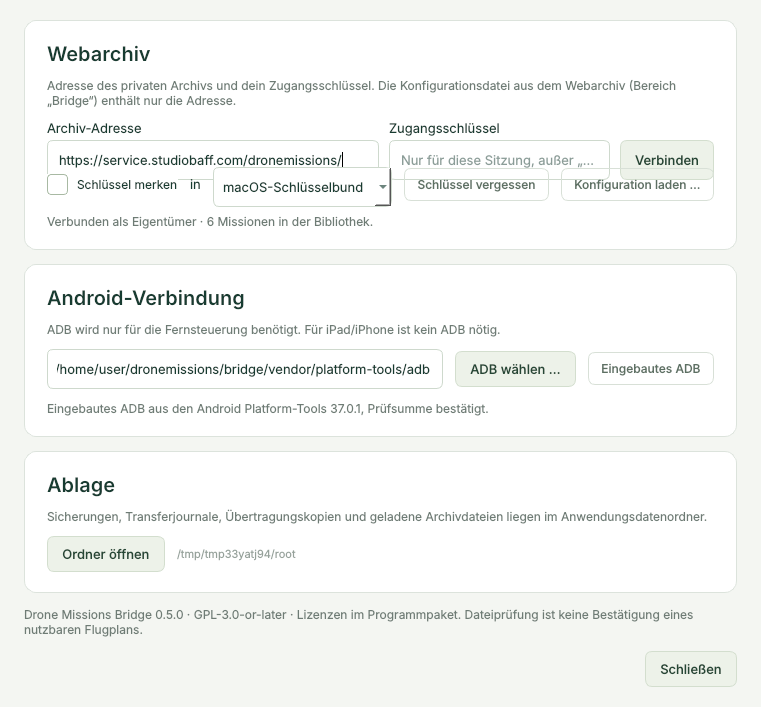
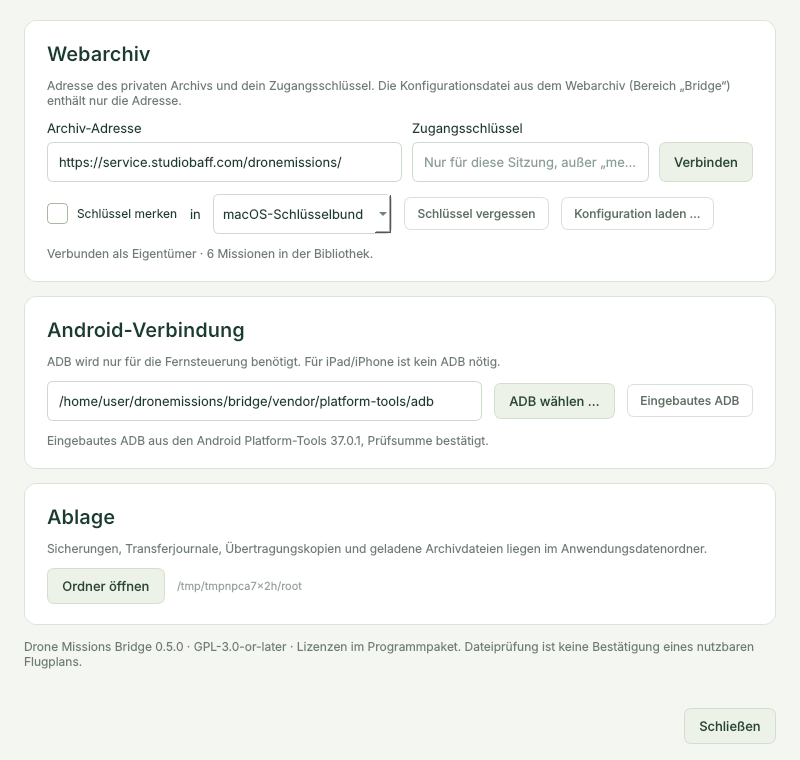
Einstellungsfenster: Karten überlagern sich nicht mehr
Der Dialog legte seine Höhe nach einer zu kleinen Mindesthöhe fest, weil
umbrechende Beschreibungen Qt nur eine Zeile melden; auf dem Mac rutschten
dadurch Zeile „Schlüssel merken“ und Verbindungsfelder ineinander. Der Inhalt
liegt jetzt in einer Scrollfläche, die heightForWidth berücksichtigt; das
Fenster öffnet mit 800 × 760 Punkten und bleibt bei jeder Größe lesbar. Der
„Verbinden“-Knopf hat eine feste Mindesthöhe.

Claude-Session: https://claude.ai/code/session_014vQgmaf9jbNQvoy9UiW2SB

diff --git a/bridge/desktop.py b/bridge/desktop.py
@@ -11,7 +11,7 @@ from datetime import datetime
 from pathlib import Path
 from PySide6.QtCore import QThread,Signal,QSettings,QStandardPaths,Qt,QUrl,QTimer,QSize
 from PySide6.QtGui import QDesktopServices,QPixmap,QPainter,QColor,QFont,QIcon,QAction,QKeySequence
-from PySide6.QtWidgets import (QApplication,QMainWindow,QWidget,QVBoxLayout,QHBoxLayout,QGridLayout,QDialog,
+from PySide6.QtWidgets import (QLayout,QApplication,QMainWindow,QWidget,QVBoxLayout,QHBoxLayout,QGridLayout,QDialog,
  QLabel,QPushButton,QComboBox,QLineEdit,QFileDialog,QListWidget,QListWidgetItem,QPlainTextEdit,QTreeWidget,QTreeWidgetItem,
  QMessageBox,QCheckBox,QStackedWidget,QFrame,QProgressBar,QTabWidget,QTabBar,QButtonGroup,QSizePolicy,QScrollArea,QInputDialog,QSplitter)
 from PySide6.QtSvg import QSvgRenderer
@@ -277,9 +277,13 @@ class Window(QMainWindow):
   self.resume_button=QPushButton('Fortsetzen  ▸');self.resume_button.setObjectName('primary');self.resume_button.setEnabled(False);self.resume_button.clicked.connect(self.execute);row.addWidget(self.resume_button);card.addLayout(row)
 
  def build_settings_dialog(self):
-  d=QDialog(self);d.setWindowTitle('Einstellungen');d.setModal(False);d.resize(720,560);self.settings_dialog=d;layout=QVBoxLayout(d);layout.setContentsMargins(24,20,24,20);layout.setSpacing(14)
+  d=QDialog(self);d.setWindowTitle('Einstellungen');d.setModal(False);d.resize(800,760);d.setMinimumSize(640,420);self.settings_dialog=d
+  # Umbrechende Beschreibungen melden Qt eine zu kleine Mindesthöhe, die Karten würden sich bei kleinem Fenster überlagern.
+  # Eine Scrollfläche mit widgetResizable berücksichtigt heightForWidth und hält die Zeilen auf jeder Fenstergröße auseinander.
+  outer=QVBoxLayout(d);outer.setContentsMargins(0,0,0,0);outer.setSpacing(0);scroll=QScrollArea();scroll.setWidgetResizable(True);scroll.setFrameShape(QFrame.NoFrame);scroll.setObjectName('settingsScroll');outer.addWidget(scroll,1)
+  content=QWidget();content.setObjectName('settingsContent');scroll.setWidget(content);layout=QVBoxLayout(content);layout.setContentsMargins(24,20,24,8);layout.setSpacing(14)
   card=self.card(layout);self.heading(card,'Webarchiv','Adresse des privaten Archivs und dein Zugangsschlüssel. Die Konfigurationsdatei aus dem Webarchiv (Bereich „Bridge“) enthält nur die Adresse.')
-  grid=QGridLayout();grid.setHorizontalSpacing(10);grid.setVerticalSpacing(4)
+  grid=QGridLayout();grid.setHorizontalSpacing(10);grid.setVerticalSpacing(6)
   saved_url=self.settings.value('archiveURL','') or ''
   if re.match(r'^https?://(?:127\.0\.0\.1|localhost|\[::1\]|example\.(?:com|net|org))(?=[:/]|$)',saved_url,re.I) and not os.environ.get('DRONEMISSIONS_DEV'):saved_url='';self.settings.setValue('archiveURL',ARCHIVE_URL)
   grid.addWidget(QLabel('Archiv-Adresse'),0,0);self.archive_url=QLineEdit(saved_url or ARCHIVE_URL);self.archive_url.setPlaceholderText(ARCHIVE_URL);self.archive_url.editingFinished.connect(self.archive_url_edited);grid.addWidget(self.archive_url,1,0)
@@ -303,7 +307,7 @@ class Window(QMainWindow):
   card=self.card(layout);self.heading(card,'Ablage','Sicherungen, Transferjournale, Übertragungskopien und geladene Archivdateien liegen im Anwendungsdatenordner.')
   row=QHBoxLayout();button=QPushButton('Ordner öffnen');button.clicked.connect(lambda:QDesktopServices.openUrl(QUrl.fromLocalFile(str(self.root))));row.addWidget(button);path=QLabel(str(self.root));path.setObjectName('ident');path.setWordWrap(True);row.addWidget(path,1);card.addLayout(row)
   label=QLabel(f'Drone Missions Bridge {VERSION} · GPL-3.0-or-later · Lizenzen im Programmpaket. Dateiprüfung ist keine Bestätigung eines nutzbaren Flugplans.');label.setObjectName('muted');label.setWordWrap(True);layout.addWidget(label)
-  foot=QHBoxLayout();foot.addStretch();close=QPushButton('Schließen');close.clicked.connect(d.close);foot.addWidget(close);layout.addLayout(foot)
+  layout.addStretch();foot=QHBoxLayout();foot.setContentsMargins(24,10,24,16);foot.addStretch();close=QPushButton('Schließen');close.clicked.connect(d.close);foot.addWidget(close);outer.addLayout(foot)
   self.archive_restore_key()
  def build_log_dialog(self):
   d=QDialog(self);d.setWindowTitle('Protokoll');d.setModal(False);d.resize(760,480);self.log_dialog=d;layout=QVBoxLayout(d);layout.setContentsMargins(20,16,20,16)
@@ -983,6 +987,7 @@ QCheckBox::indicator:checked{background:#254e3b;border:1px solid #254e3b;image:u
 QCheckBox::indicator:indeterminate{background:#254e3b;border:1px solid #254e3b;image:url("__CHECKPARTIAL__")}
 QCheckBox::indicator:disabled{border-color:#c7d0c6;background:#e5ebe2}
 QProgressBar{background:#e1e9dc;border:none;border-radius:2px}QProgressBar::chunk{background:#7b9f68}
+QScrollArea#settingsScroll,QScrollArea#settingsScroll>QWidget>QWidget#settingsContent{background:#f4f6f2;border:none}
 QScrollBar:vertical{background:transparent;width:10px}QScrollBar::handle:vertical{background:#cdd8c9;border-radius:5px;min-height:30px}
 QSplitter::handle{background:transparent;width:8px}
 '''
